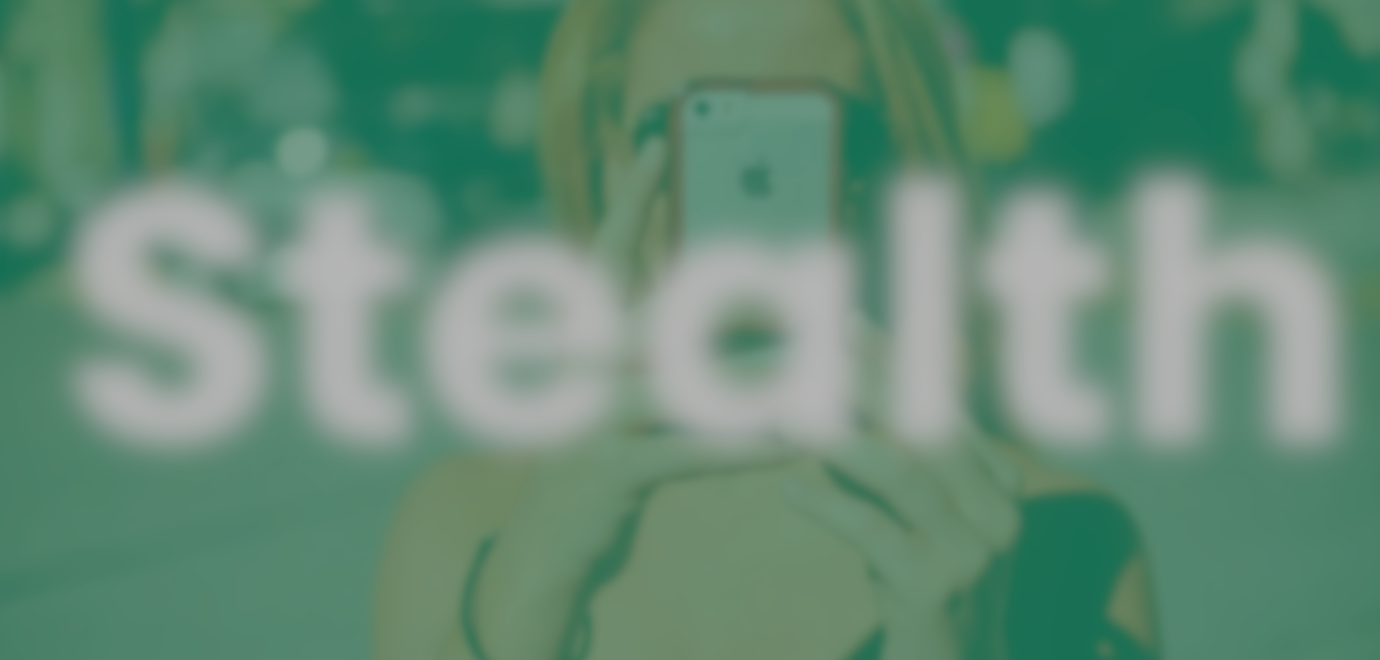
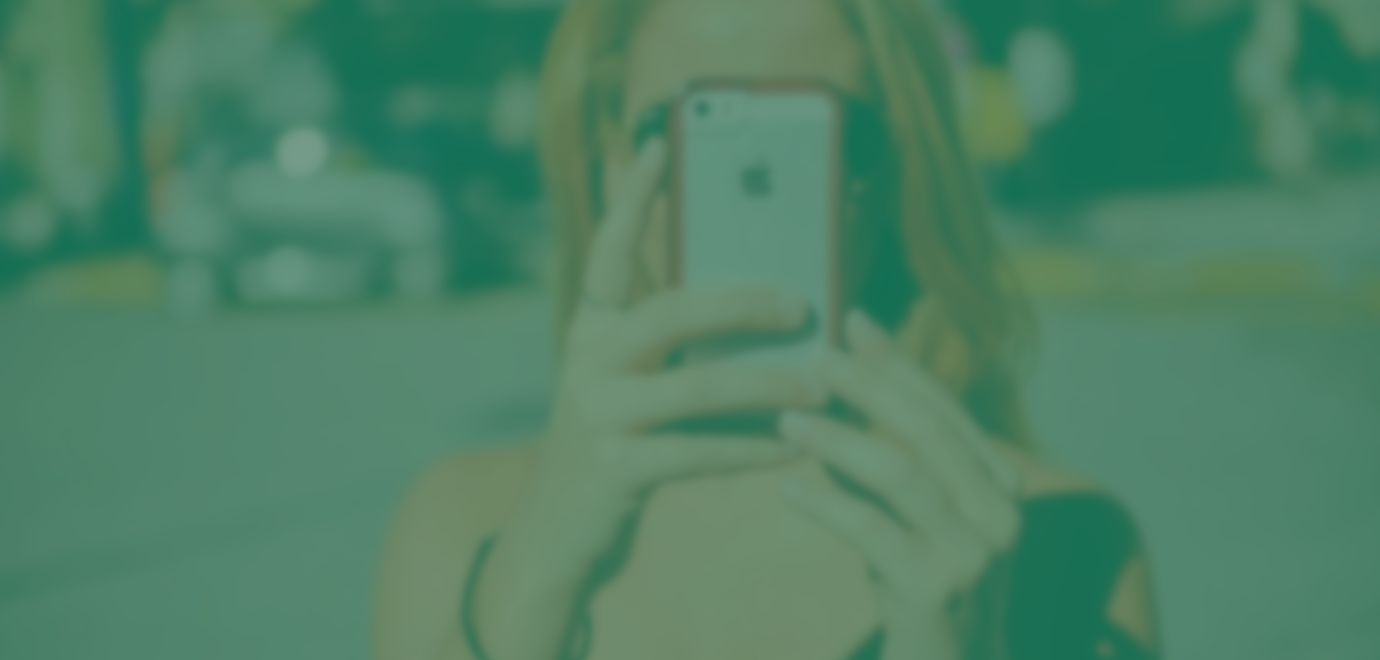
Update index.html

diff --git a/index.html b/index.html
@@ -67,7 +67,7 @@
 									<a href="mailto:stealth@christoph.tech">
 										<h2>Stealth</h2>
 										<div class="content">
-											<p>The next generation of mobile advertising. Seven-figure revenue. Drop me a line for more information.</p>
+											<p>Working on empowering content creators. Drop me a line for more information.</p>
 										</div>
 									</a>
 								</article>
@@ -78,7 +78,7 @@
 									<a href="./UTK.io/">
 										<h2>UTK.io</h2>
 										<div class="content">
-											<p>A social network for Minecraft PE players with more than 2.1 million registered users</p>
+											<p>A social network for mobile gamers with 10+ million downloads</p>
 										</div>
 									</a>
 								</article>
